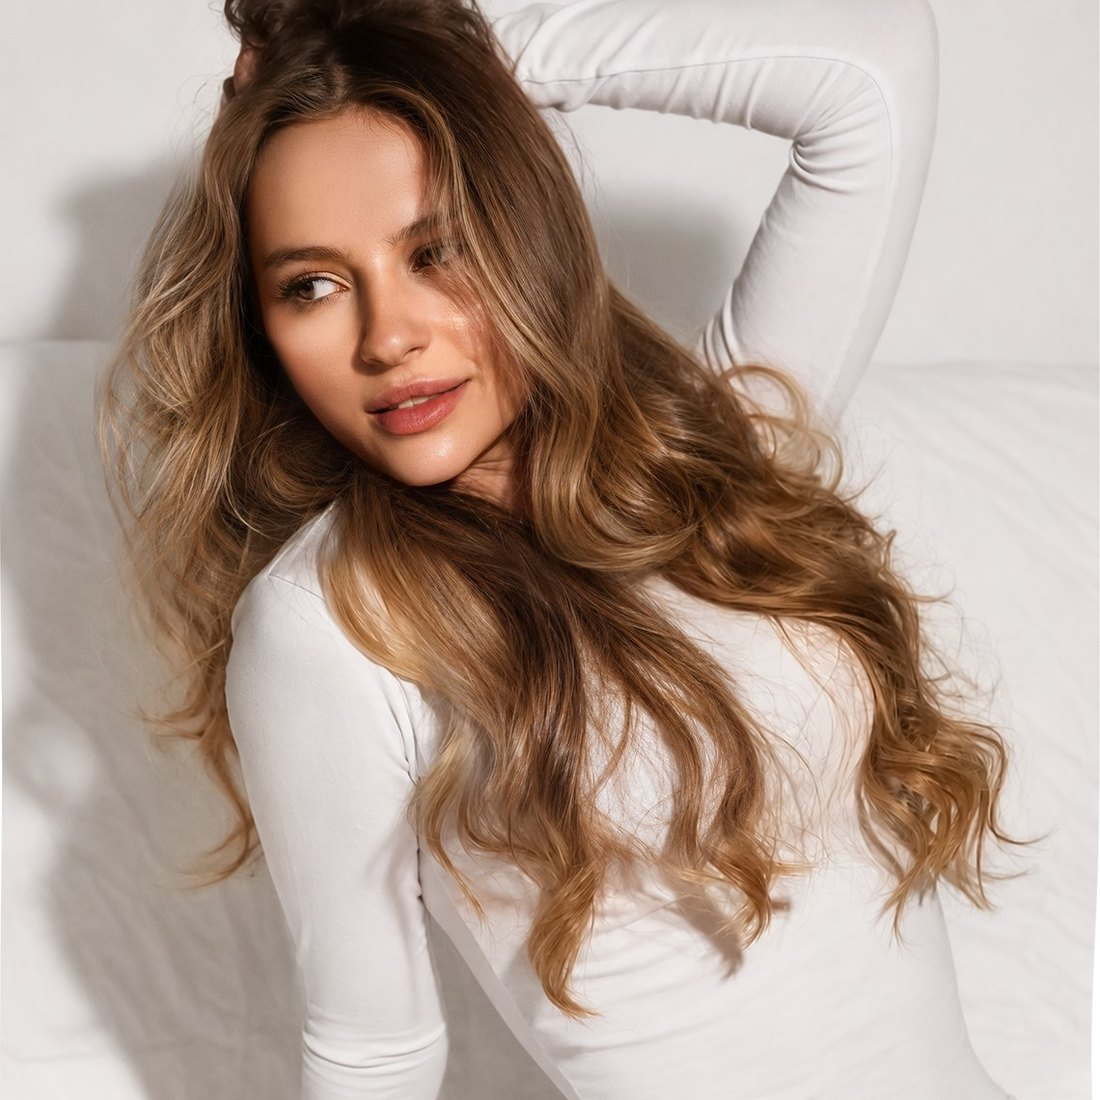
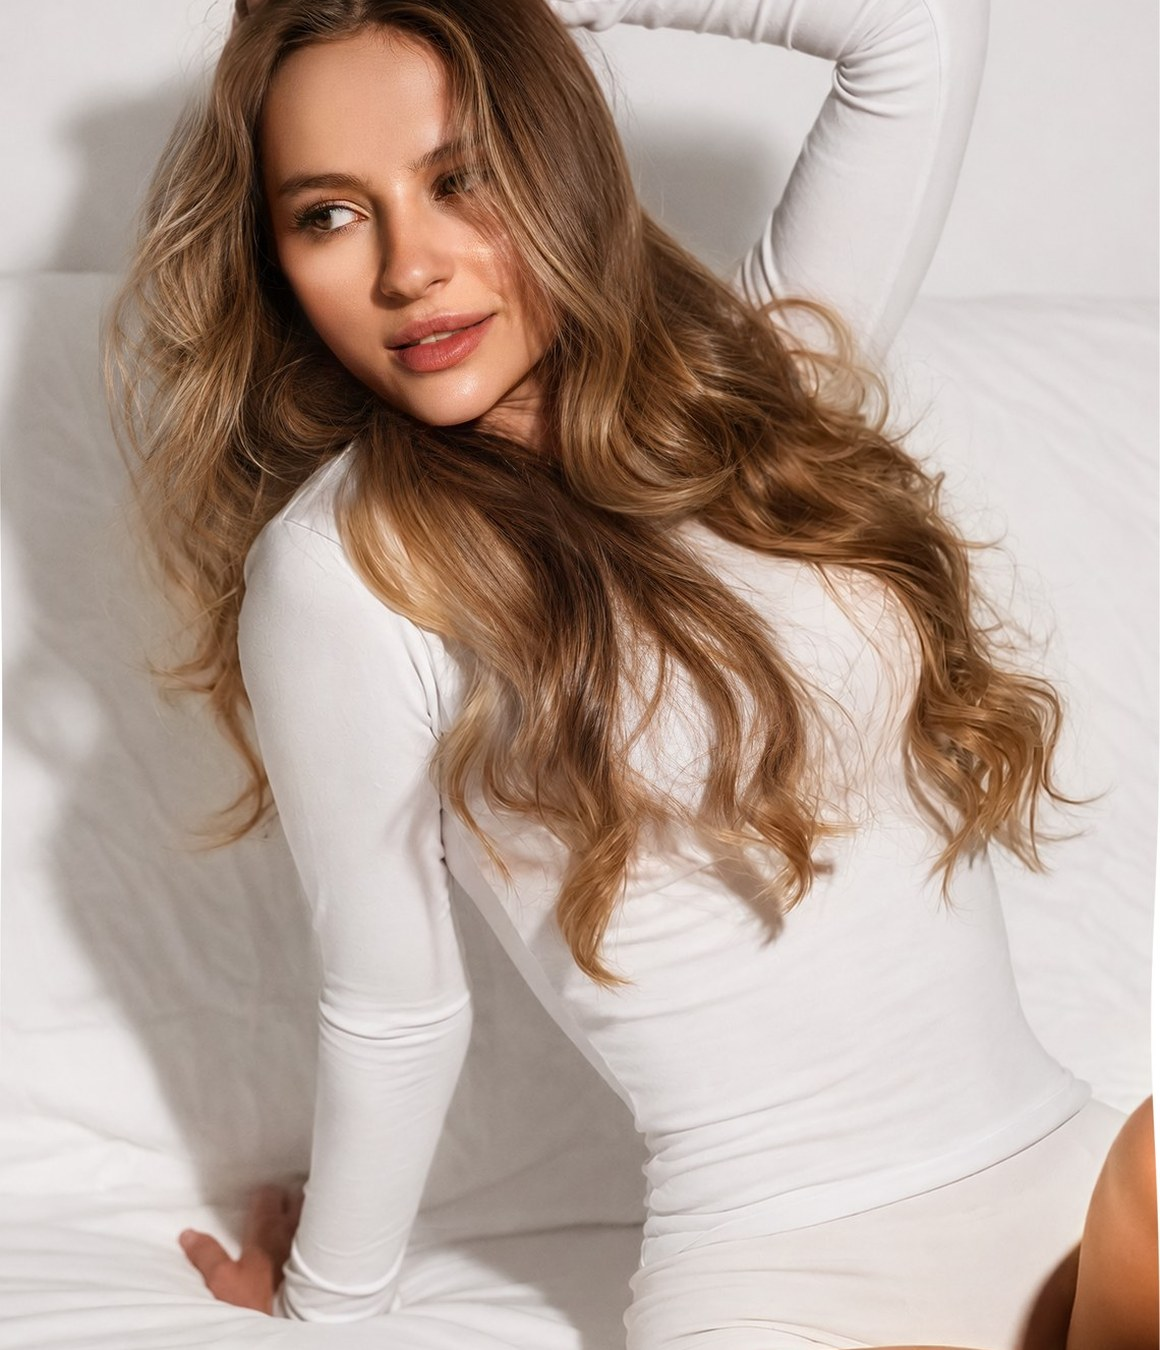
полотно по его разметке: 580x675 в указанной точке, заполняет кадр целиком; текст первого блока от его линии; полотно берётся зажатой мышью и тянется по физике; подложка под сменяющимся словом убрана

diff --git a/index.html b/index.html
@@ -10,7 +10,7 @@
 <link rel="preconnect" href="https://fonts.gstatic.com" crossorigin>
 <link href="https://fonts.googleapis.com/css2?family=Inter:wght@400;500;600&display=swap&subset=cyrillic" rel="stylesheet">
 <link rel="preload" href="fonts/ak.woff2" as="font" type="font/woff2" crossorigin>
-<script src="cases.js?v=021442"></script>
+<script src="cases.js?v=021455"></script>
 <script src="https://cdn.jsdelivr.net/npm/lenis@1.3.21/dist/lenis.min.js"></script>
 <script src="https://cdn.jsdelivr.net/npm/gsap@3.13.0/dist/gsap.min.js"></script>
 <script src="https://cdn.jsdelivr.net/npm/gsap@3.13.0/dist/ScrollTrigger.min.js"></script>
@@ -139,18 +139,23 @@
      Висит в свободном поле справа от имени, над рядом плиток. На десктопе
      вынесено из потока, чтобы не сдвинуть ни одной строки; на телефоне
      встаёт между фразой и плитками, где место есть. */
-  #cloth{position:absolute;right:7.4%;top:clamp(96px,12vh,170px);
-    width:24%;aspect-ratio:1;z-index:1;touch-action:none;}
+  /* Коробка снята с его разметки: 580 x 675 при окне 1985 x 1145, правый край
+     в 99 px от края вёрстки, верх в 189 px от верха окна. Пропорция держится
+     на aspect-ratio, так что на любой ширине кадр тот же. */
+  #cloth{position:absolute;right:5.02%;top:clamp(120px,16.5vh,230px);
+    width:29.44%;aspect-ratio:580/675;z-index:4;touch-action:none;
+    cursor:grab;-webkit-user-select:none;user-select:none;}
+  #cloth.dragging{cursor:grabbing;}
   /* Холст в полтора раза больше своей коробки и смещён на четверть в каждую
      сторону: ткань на размахе выходит за собственный квадрат, и при холсте
      впритык низ срезался ровно по его границе. Камера отодвинута во столько
      же раз, так что полотно на экране прежней величины. Событий холст не
      ловит — иначе его поля перекрыли бы соседний текст; мышь слушает сама
      коробка, которая осталась на месте. */
-  #cloth canvas{position:absolute;left:-25%;top:-25%;width:150%;height:150%;
+  #cloth canvas{position:absolute;left:-37.5%;top:-37.5%;width:175%;height:175%;
     display:block;pointer-events:none;}
   @media (max-width:900px){
-    #cloth{position:relative;right:auto;top:auto;width:auto;aspect-ratio:1;
+    #cloth{position:relative;right:auto;top:auto;width:auto;aspect-ratio:580/675;
       margin:clamp(30px,6vh,60px) var(--gm) clamp(10px,2vh,20px);}
   }
 
@@ -174,7 +179,9 @@
      column at 35.7vw — which is what gives the reference its stagger. */
   /* kept in the flow, above the name, in the same column: absolute offsets went
      on landing on top of the heading at widths I could not check */
-  .op-note{position:relative;z-index:3;margin-left:var(--col);padding-top:clamp(56px,9vh,110px);}
+  /* Начало текста — по линии, которую он провёл: низ угловой подписи, 44 px
+     от верха окна при 1145 его высоты. Отступы внутри блока не тронуты. */
+  .op-note{position:relative;z-index:3;margin-left:var(--col);padding-top:clamp(30px,4.02vh,60px);}
   .op-1{position:relative;z-index:2;margin-top:clamp(18px,3vh,40px);}
   .chapter{position:relative;}
   .op-role{position:relative;z-index:3;margin-left:var(--col);margin-top:clamp(10px,1.8vh,22px);}
@@ -824,7 +831,7 @@
     </div>
 
     <div class="tailroom"></div>
-    <span id="buildStamp" style="display:none">BUILD 02.10 14:42</span>
+    <span id="buildStamp" style="display:none">BUILD 02.10 14:55</span>
   </section>
 
 </main>
@@ -978,7 +985,7 @@
     blur:    0.34,   // peak blur as a share of the font size
     reveal:  0.62,   // seconds for a line to resolve
     swap:    0.90,   // seconds for a word to melt, change and re-form
-    swapBlur:0.15,   // peak blur for a swap, as a share of the font size:
+    swapBlur:0.26,   // peak blur for a swap, as a share of the font size:
                      // low enough that the word stays a visible blob instead
                      // of thinning past the threshold and vanishing, which is
                      // what left a white gap where the word should be
@@ -2185,23 +2192,18 @@
 
     var st = {b: 0};
     function paint(){
-      host.style.filter = st.b < 0.06 ? 'none'
-        : 'blur(' + st.b.toFixed(2) + 'px) contrast(' + (1 + st.b * 1.9).toFixed(2) + ')';
+      host.style.filter = st.b < 0.06 ? 'none' : 'blur(' + st.b.toFixed(2) + 'px)';
     }
 
     (function cycle(){
       var peak = peakNow();
       gsap.timeline({delay: 1.9, onComplete: cycle})
-        .add(function(){
-          host.style.backgroundColor = 'var(--paper)';
-          host.style.willChange = 'filter';
-        })
+        .add(function(){ host.style.willChange = 'filter'; })
         .to(st, {b: peak, duration: GOO.swap * .55, ease: 'power2.in', onUpdate: paint})
         .add(function(){ i = (i + 1) % WORDS.length; txt.textContent = WORDS[i]; })
         .to(st, {b: 0, duration: GOO.swap * .55, ease: 'power2.out', onUpdate: paint})
         .add(function(){
           host.style.filter = 'none';
-          host.style.backgroundColor = 'transparent';
           host.style.willChange = 'auto';
         });
     })();
@@ -2935,8 +2937,14 @@ import * as THREE from 'https://cdn.jsdelivr.net/npm/three@0.160.0/build/three.m
   if(window.matchMedia('(prefers-reduced-motion: reduce)').matches) return;
 
   var SMALL = window.matchMedia('(max-width:900px)').matches;
-  var COLS = SMALL ? 16 : 24, ROWS = COLS;   // полотно квадратное
-  var W = 1.0, H = 1.0;
+  var COLS = SMALL ? 16 : 24, ROWS = COLS;
+  var GATHER = 0.90;                 // во столько раз подвес уже самой ткани
+  /* Пропорция берётся с коробки, а не задаётся числом: так разметка и сцена
+     не могут разойтись. Ширина делится на сбор — ткань садится по ширине на
+     те же 10 %, и в коробку она приходит ровно его кадром. */
+  var bx = holder.getBoundingClientRect();
+  var AR = (bx.width && bx.height) ? bx.width / bx.height : 1;
+  var H = 1.0, W = AR;
 
   var renderer = new THREE.WebGLRenderer({canvas: canvas, antialias: !SMALL, alpha: true});
   renderer.setPixelRatio(Math.min(window.devicePixelRatio, SMALL ? 1.5 : 2));
@@ -2945,8 +2953,16 @@ import * as THREE from 'https://cdn.jsdelivr.net/npm/three@0.160.0/build/three.m
   // Кадр заметно шире полотна: когда ткань раскачивается, её края выходят за
   // собственный размер, и при впритык подобранной камере она обрезалась о
   // границу контейнера. Запас примерно в полтора раза это снимает.
-  var OVER = 1.5;                      // во столько раз холст шире коробки
-  camera.position.set(0, 0, 2.42 * OVER);
+  /* Холст шире коробки, камера видит ровно эту ширину — значит полотно
+     занимает свою коробку целиком, а поля вокруг остаются ткани на размах и
+     на рывок рукой. */
+  var OVER = 1.75;
+  var FOV = 32;
+  camera.fov = FOV;
+  camera.position.set(0, 0, OVER / (2 * Math.tan(FOV * Math.PI / 360)));
+  camera.updateProjectionMatrix();
+  // половина видимого кадра в мировых единицах — по ней ограничивается рывок
+  var VIS_H = OVER / 2, VIS_W = VIS_H * AR;
 
   // Свет сбоку и сверху: складки читаются только если они затенены. При ровной
   // засветке ткань выглядела плоской фотографией.
@@ -2984,7 +3000,7 @@ import * as THREE from 'https://cdn.jsdelivr.net/npm/three@0.160.0/build/three.m
     pos[i*3+1] = prev[i*3+1] = src[i*3+1];
     pos[i*3+2] = prev[i*3+2] = src[i*3+2];
   }
-  mesh.position.y = 0.04;
+  mesh.position.y = 0;
 
   // пружины: соседние узлы, диагонали и через один — последние держат форму,
   // иначе ткань складывается сама в себя
@@ -3014,7 +3030,6 @@ import * as THREE from 'https://cdn.jsdelivr.net/npm/three@0.160.0/build/three.m
      деть, и она уходит в вертикальные заломы, как у собранной шторы. Лёгкая
      гофра по глубине задаёт им шаг, иначе сторона залома выбирается случайно
      и ткань может пойти одной широкой волной. */
-  var GATHER = 0.90;                 // во столько раз подвес уже самой ткани
   for(var px0 = 0; px0 < NX; px0++){
     var u = NX > 1 ? px0 / (NX - 1) : 0;
     pinned[px0] = 1;
@@ -3042,9 +3057,49 @@ import * as THREE from 'https://cdn.jsdelivr.net/npm/three@0.160.0/build/three.m
     return true;
   }
 
+  /* ---------- рука ----------
+     Зажатая кнопка берёт ближайший свободный узел и ведёт его за курсором.
+     Узел на время становится точкой подвеса, остальная ткань тянется за ним
+     по связям — поэтому полотно идёт складками в сторону руки, а не сдвигается
+     целиком. Отпускание возвращает узел в расчёт со скоростью последнего
+     движения руки, и ткань доигрывает бросок сама. */
+  var grab = -1, grabPlane = new THREE.Plane(new THREE.Vector3(0, 0, 1), 0);
+  var grabPt = new THREE.Vector3();
+
+  function nearestFree(p){
+    var best = -1, bd = Infinity;
+    for(var i = 0; i < N; i++){
+      if(pinned[i]) continue;
+      var dx = pos[i*3] - p.x, dy = pos[i*3+1] - (p.y - mesh.position.y), dz = pos[i*3+2] - p.z;
+      var d = dx*dx + dy*dy + dz*dz;
+      if(d < bd){ bd = d; best = i; }
+    }
+    return best;
+  }
+
+  function dragTo(e){
+    var r = canvas.getBoundingClientRect();
+    if(!r.width || !r.height) return;
+    ndc.x = ((e.clientX - r.left) / r.width) * 2 - 1;
+    ndc.y = -((e.clientY - r.top) / r.height) * 2 + 1;
+    ray.setFromCamera(ndc, camera);
+    // ведём узел в плоскости той глубины, на которой его взяли
+    grabPlane.constant = -pos[grab*3+2];
+    if(!ray.ray.intersectPlane(grabPlane, grabPt)) return;
+    var g3 = grab * 3;
+    // за кадр уходить нельзя, иначе ткань утаскивается из поля зрения
+    var nx = Math.max(-VIS_W * .96, Math.min(VIS_W * .96, grabPt.x));
+    var ny = Math.max(-VIS_H * .96, Math.min(VIS_H * .96, grabPt.y - mesh.position.y));
+    prev[g3] = pos[g3]; prev[g3+1] = pos[g3+1];
+    pos[g3] = nx; pos[g3+1] = ny;
+  }
+
   holder.addEventListener('pointerenter', function(){ hoverWant = 1; });
-  holder.addEventListener('pointerleave', function(){ hoverWant = 0; hasHit = false; });
+  holder.addEventListener('pointerleave', function(){
+    if(grab < 0){ hoverWant = 0; hasHit = false; }
+  });
   holder.addEventListener('pointermove', function(e){
+    if(grab >= 0){ dragTo(e); return; }
     if(!aim(e)) return;
     hoverWant = 1;
     pullAt.copy(hit);
@@ -3052,15 +3107,29 @@ import * as THREE from 'https://cdn.jsdelivr.net/npm/three@0.160.0/build/three.m
     pull.z += 0.5;                         // немного на себя, чтобы пошла волна
     pullPow = Math.min(1, pullPow + 0.5);
   }, {passive: true});
-  // телефон: касание даёт один заметный толчок в точке тапа
+
   holder.addEventListener('pointerdown', function(e){
+    // иначе браузер начинает выделять текст и тянет его вместо ткани
+    e.preventDefault();
     if(!aim(e)) return;
-    pullAt.copy(hit);
-    pull.set((Math.random() - .5) * .5, (Math.random() - .5) * .5, 1.9);
-    pullPow = 1;
+    grab = nearestFree(hit);
+    if(grab < 0) return;
+    pinned[grab] = 1;
     hoverWant = 1;
-    setTimeout(function(){ hoverWant = 0; }, 1500);
-  }, {passive: true});
+    holder.classList.add('dragging');
+    try{ holder.setPointerCapture(e.pointerId); }catch(err){}
+  });
+
+  function release(){
+    if(grab < 0) return;
+    pinned[grab] = 0;                      // скорость у узла уже есть — бросок
+    grab = -1;
+    holder.classList.remove('dragging');
+    setTimeout(function(){ hoverWant = 0; }, 1200);
+  }
+  holder.addEventListener('pointerup', release);
+  holder.addEventListener('pointercancel', release);
+  window.addEventListener('blur', release);
 
   /* ---------- шаг ---------- */
   var t = 0;
@@ -3076,7 +3145,7 @@ import * as THREE from 'https://cdn.jsdelivr.net/npm/three@0.160.0/build/three.m
       // две волны разной частоты — движение не читается как повтор
       wz = (Math.sin(px * 3.1 + t * 1.25) * 0.55 + Math.sin(py * 2.2 - t * 0.83) * 0.45) * 0.0016 * gust;
       wx = Math.sin(py * 1.7 + t * 0.95) * 0.0009 * gust;
-      wy = -0.0034;                         // тяжесть: чем больше, тем глубже заломы
+      wy = -0.0030;                         // тяжесть: чем больше, тем глубже заломы
       acc[i3] += wx; acc[i3+1] += wy; acc[i3+2] += wz;
     }
     if(pullPow > 0.004){
@@ -3104,7 +3173,7 @@ import * as THREE from 'https://cdn.jsdelivr.net/npm/three@0.160.0/build/three.m
     }
     // пружины: несколько проходов, иначе ткань тянется как резина
     // на двух точках подвеса связям нужно больше проходов, иначе ткань тянется
-    for(var pass = 0; pass < 4; pass++){
+    for(var pass = 0; pass < 6; pass++){
       for(var l = 0; l < LN; l++){
         var a = links[l*3], b = links[l*3+1], rest = links[l*3+2];
         var a3 = a*3, b3 = b*3;
